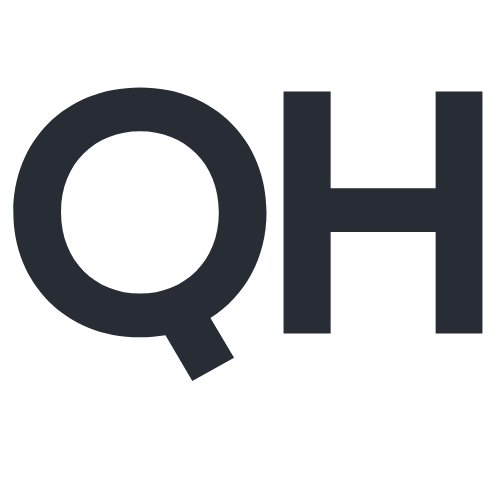
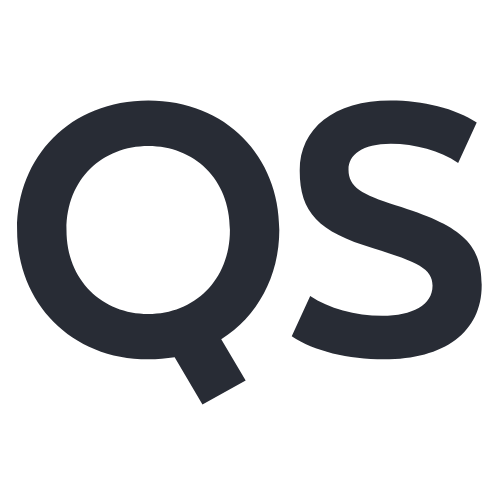
Add files via upload

diff --git a/hello.html b/hello.html
@@ -1,13 +1,13 @@
 <html>
   <link rel="stylesheet" href="main.css" >
   <body>
-    <h1>FastMark</h1>
+    <h1>QuickShelf</h1>
     <div>
         <ul id="existing-cat">
         </ul>
     </div>
     <div id="add-container">
-        <input type="text" placeholder="Add category" autocomplete="off" id="category">
+        <input type="text" placeholder="New category" autocomplete="off" id="category">
         <button id="add-btn">Add</button>
     </div>
   </body>

diff --git a/category.html b/category.html
@@ -1,6 +1,6 @@
 <body>
 <link rel="stylesheet" href="main.css">
-<h1>FastMark</h1>
+<h1>QuickShelf</h1>
 <div id="cat-top">
 <a href="hello.html" id="back-btn">&#9664;</a>
 <h2 id="info"></h2>

diff --git a/main.css b/main.css
@@ -21,6 +21,10 @@ h1{
     cursor: pointer;
 }
 
+.category-list-element span:hover{
+    font-size: 18px;
+}
+
 #add-container{
     display: flex;
     flex-direction: row;
